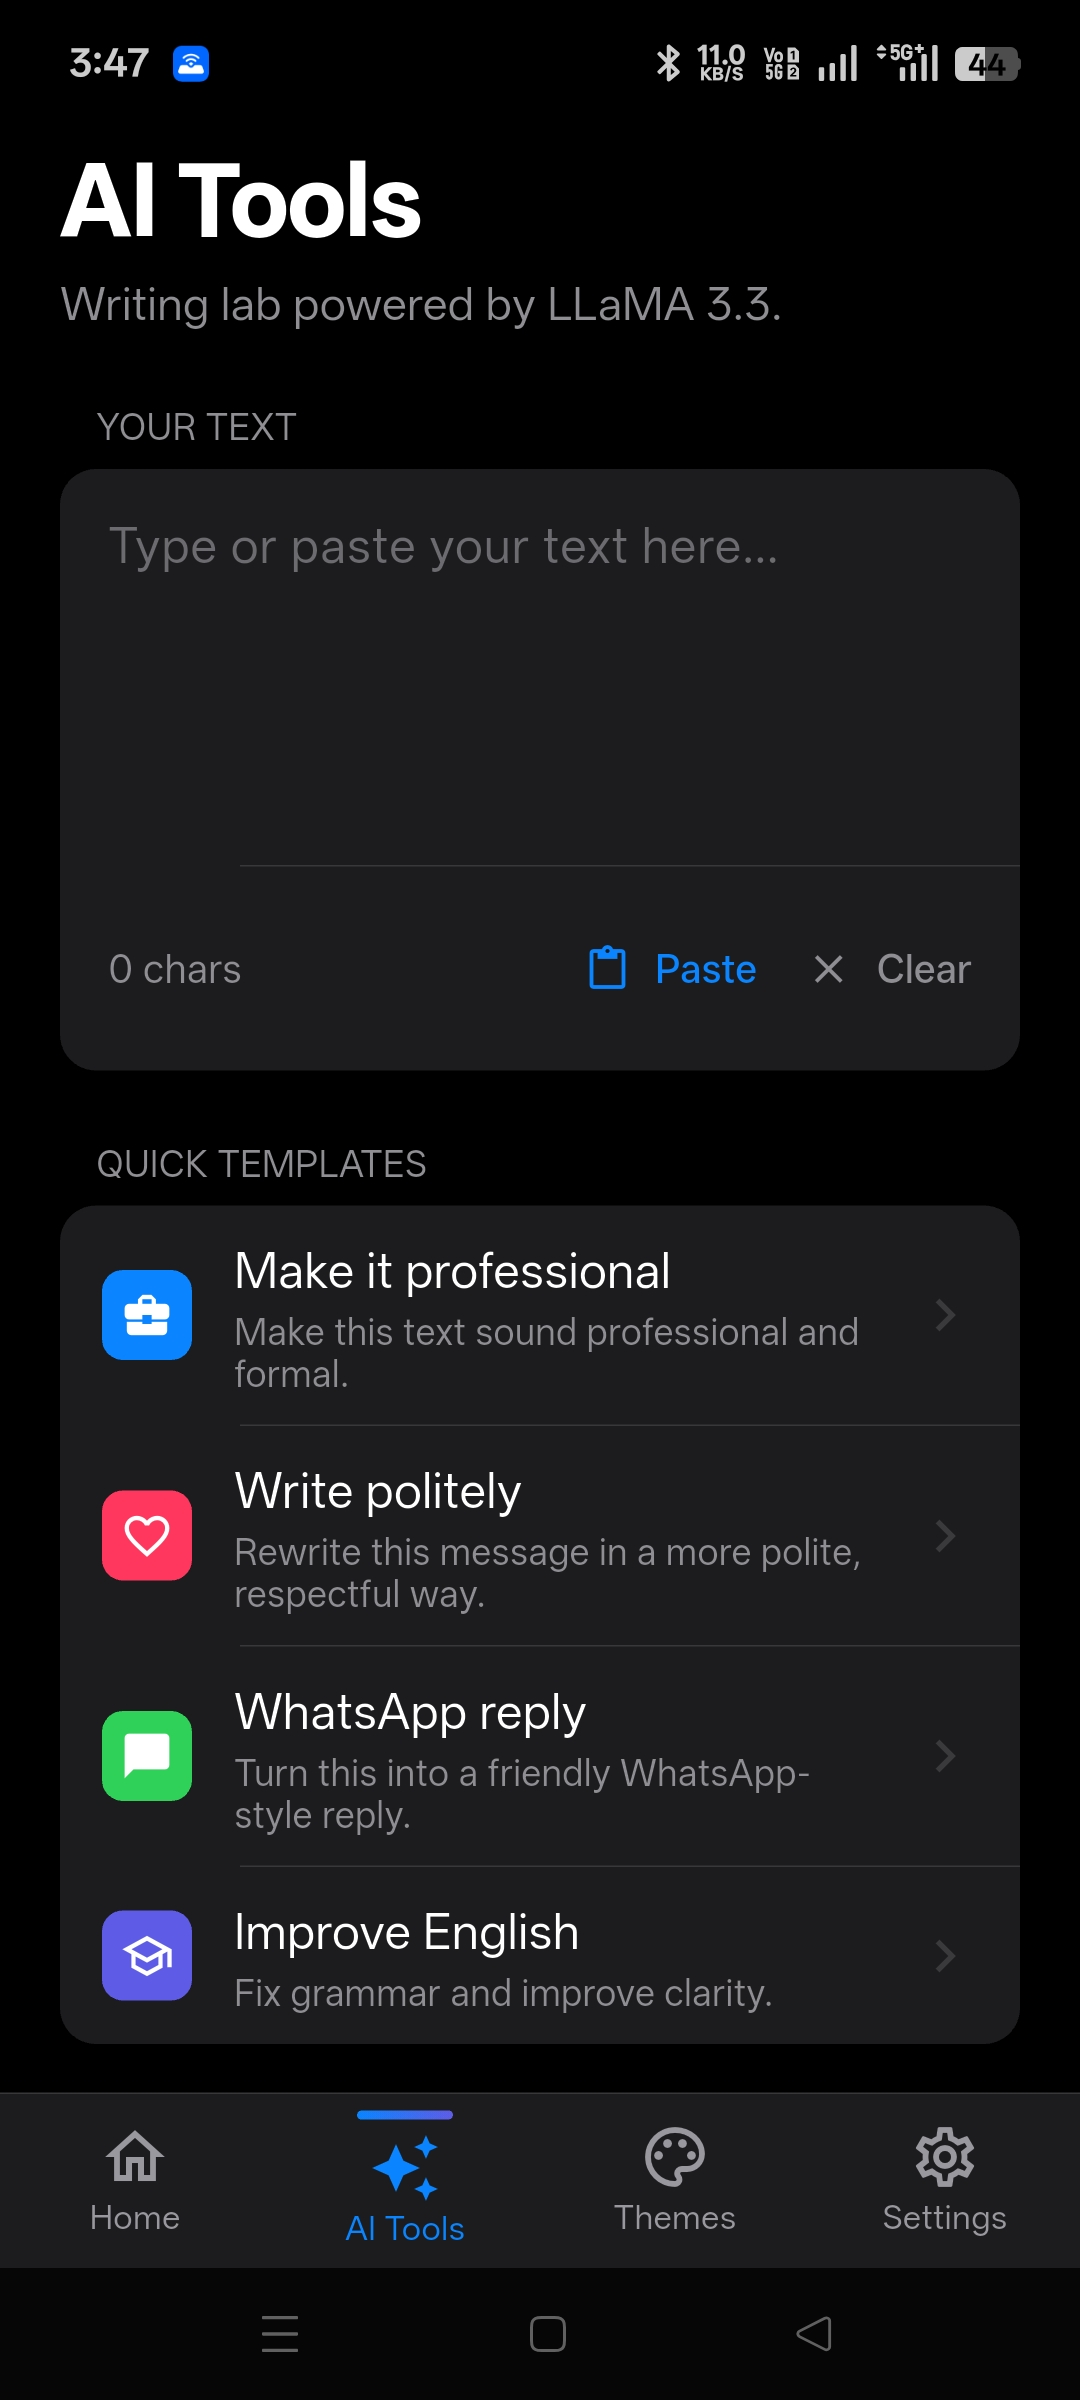
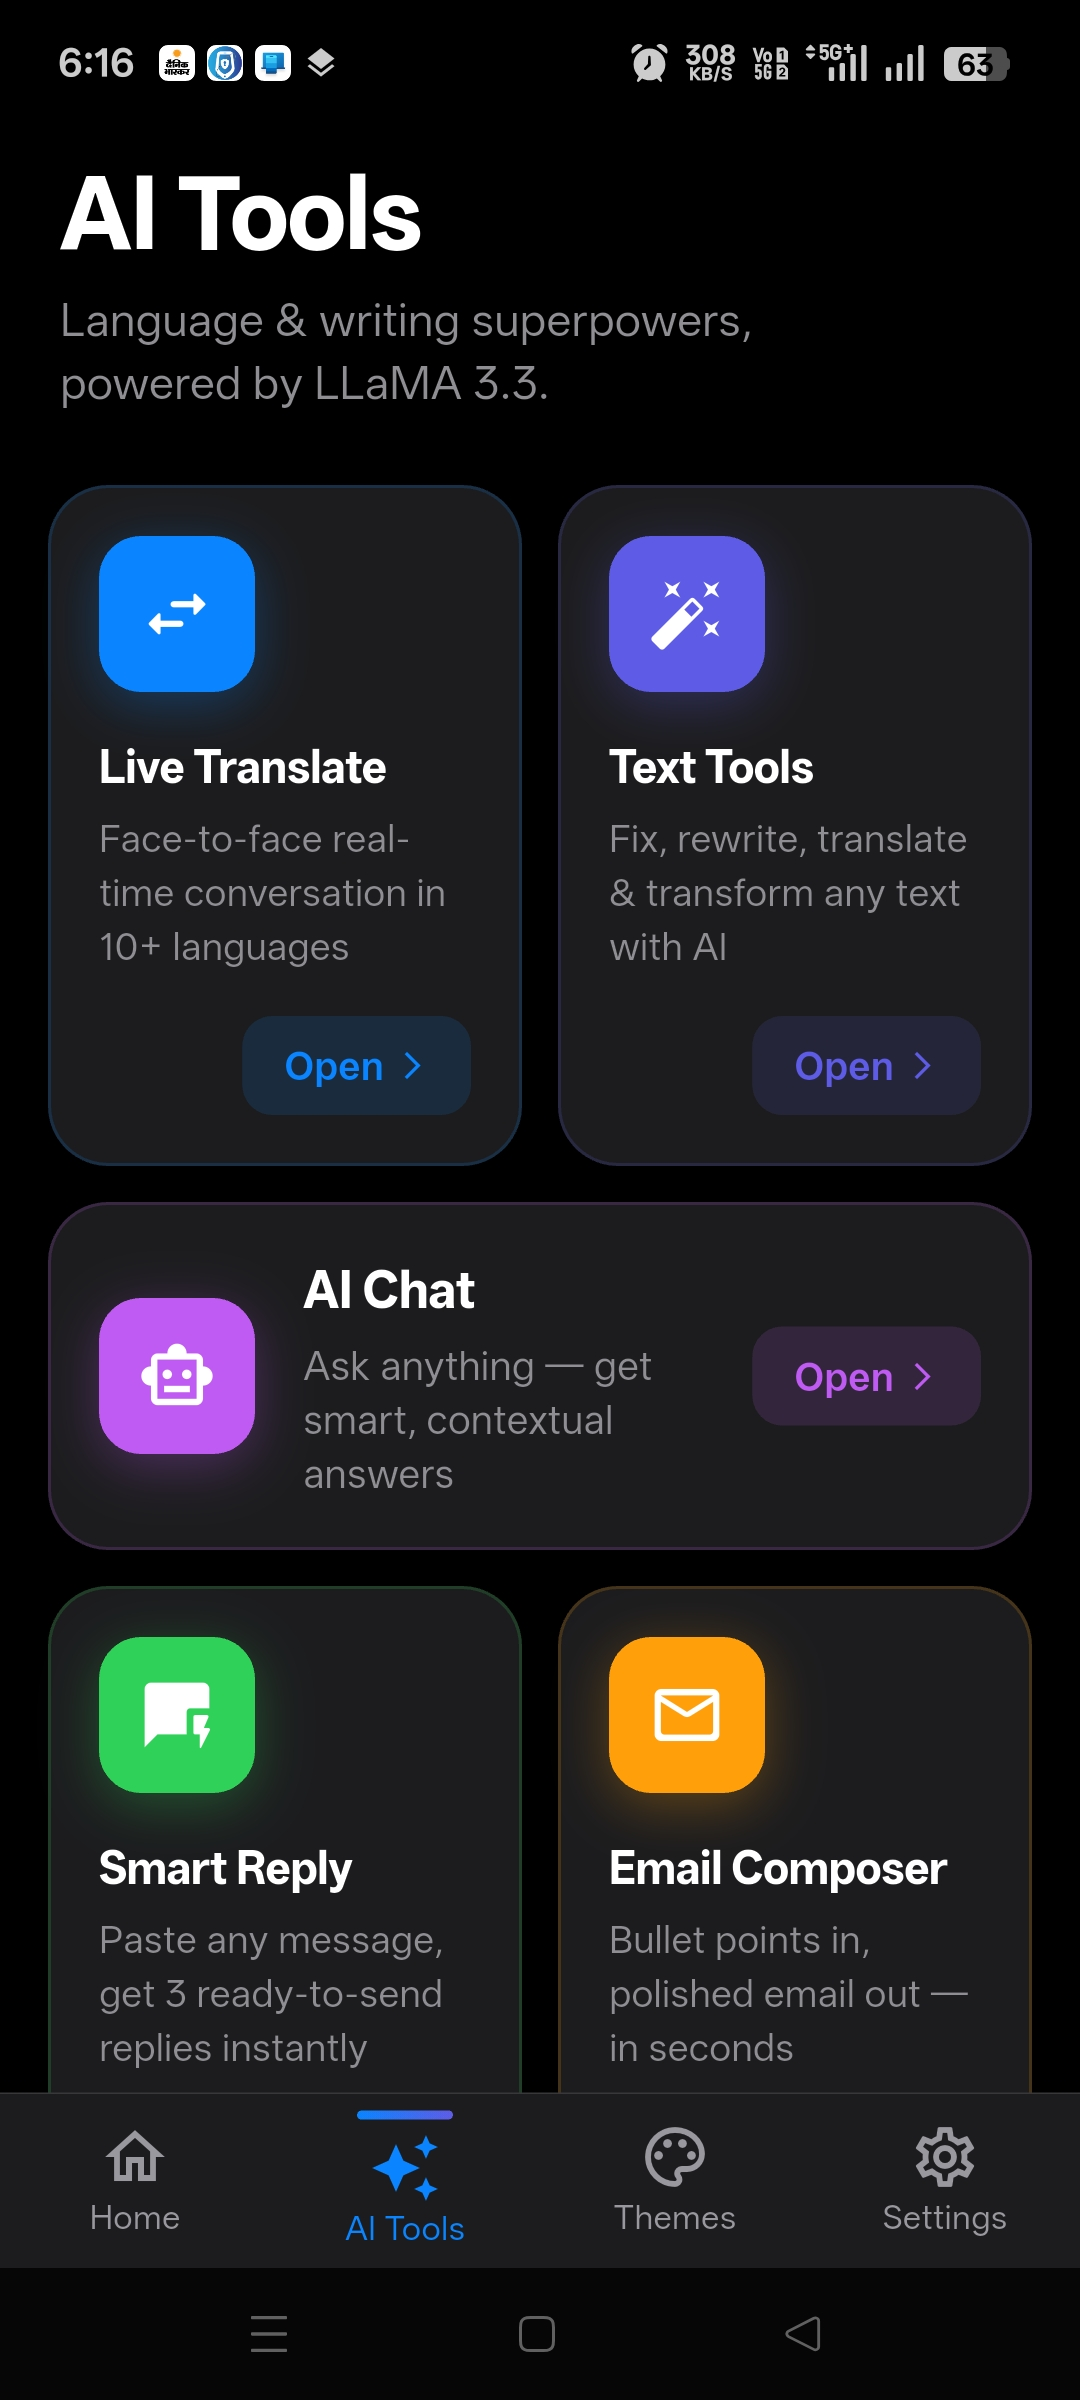
new app ver

diff --git a/index.html b/index.html
@@ -53,12 +53,11 @@
         AI-Powered · Android Keyboard · Free
       </div>
       <h1 class="hero-title">
-        Type in <span class="gradient-text">Hinglish</span>,<br />
-        Sound like a <span class="gradient-text">Pro</span>
+        One Keyboard.<br />
+        <span class="gradient-text">Unlimited AI Superpowers.</span>
       </h1>
       <p class="hero-sub">
-        TypeAura is a smart Android keyboard with AI support for <strong>10+ Indian languages</strong> — Hinglish, Hindi, Tamil, Telugu, Marathi, Bengali and more.
-        Live face-to-face translation, AI Chat with 6 modes, a full Text Tools lab, offline suggestions — powered by LLaMA&nbsp;3.3.
+        TypeAura is a smart Android keyboard with AI support for <strong>10+ Indian languages</strong>. Live Translate, AI Chat, Text Tools, Smart Reply, Email Composer, Tone Changer — <strong>6 AI tools</strong> built right into your keyboard. Powered by LLaMA&nbsp;3.3.
       </p>
       <div class="hero-cta" id="download">
         <a href="typeaura.apk" class="btn-primary" download>
@@ -141,6 +140,9 @@
           <div class="stat-pill">🤖 LLaMA 3.3 AI inside</div>
           <div class="stat-pill">🗣 Live face-to-face Translate</div>
           <div class="stat-pill">💬 AI Chat with 6 smart modes</div>
+          <div class="stat-pill">↩ Smart Reply — 3 variants instantly</div>
+          <div class="stat-pill">✉ Email Composer — notes to email</div>
+          <div class="stat-pill">🎚 Tone Changer — 6 tones</div>
           <div class="stat-pill">💡 Offline suggestions, no internet needed</div>
           <div class="stat-pill">🔒 AI off on password fields</div>
           <div class="stat-pill">⚡ Works in every app</div>
@@ -154,14 +156,14 @@
     <div class="container">
       <div class="section-header">
         <div class="section-tag">AI Tools</div>
-        <h2>Three powerful tools, <span class="gradient-text">one app</span></h2>
-        <p class="section-desc">Tap the AI Tools tab inside TypeAura to access all three — Live Translate, Text Tools, and AI Chat.</p>
+        <h2>Six powerful tools, <span class="gradient-text">one app</span></h2>
+        <p class="section-desc">Tap the AI Tools tab inside TypeAura to access all six — Live Translate, Text Tools, AI Chat, Smart Reply, Email Composer, and Tone Changer.</p>
       </div>
       <div class="ai-tools-grid">
 
         <div class="ai-tool-card">
           <div class="ai-tool-icon" style="background: linear-gradient(135deg,#0a84ff,#5e5ce6);">🗣</div>
-          <h3>Live Translate</h3>
+          <div class="ai-tool-header"><h3>Live Translate</h3></div>
           <p class="ai-tool-sub">Face-to-face real-time conversation</p>
           <p>Place your phone between two people — speak in your language, the other person sees the translation on their side of the screen, spoken aloud automatically. Supports 10+ languages.</p>
           <ul class="ai-tool-list">
@@ -174,7 +176,7 @@
 
         <div class="ai-tool-card">
           <div class="ai-tool-icon" style="background: linear-gradient(135deg,#5e5ce6,#bf5af2);">✍</div>
-          <h3>Text Tools</h3>
+          <div class="ai-tool-header"><h3>Text Tools</h3></div>
           <p class="ai-tool-sub">Write, fix, translate &amp; transform</p>
           <p>Paste any text and run it through 16+ AI tools — organized into three tabs so you always find what you need instantly.</p>
           <ul class="ai-tool-list">
@@ -187,7 +189,7 @@
 
         <div class="ai-tool-card">
           <div class="ai-tool-icon" style="background: linear-gradient(135deg,#bf5af2,#ff375f);">🤖</div>
-          <h3>AI Chat</h3>
+          <div class="ai-tool-header"><h3>AI Chat</h3></div>
           <p class="ai-tool-sub">Smart multi-turn assistant</p>
           <p>Ask anything — in English, Hindi, or Hinglish. AI Chat remembers the full conversation and adapts its behaviour based on the mode you pick.</p>
           <ul class="ai-tool-list">
@@ -195,6 +197,45 @@
             <li>✅ Reply language selector (10+ options)</li>
             <li>✅ Multi-turn memory across messages</li>
             <li>✅ Long-press any bubble to copy</li>
+          </ul>
+        </div>
+
+        <div class="ai-tool-card">
+          <div class="ai-tool-icon" style="background: linear-gradient(135deg,#30d158,#0a84ff);">↩</div>
+          <div class="ai-tool-header"><h3>Smart Reply</h3><span class="tool-new-badge">New</span></div>
+          <p class="ai-tool-sub">3 instant replies from any message</p>
+          <p>Paste any message you received — WhatsApp, email, or anywhere else — and get three ready-to-send replies in seconds. Casual, friendly, or professional — pick the one that fits.</p>
+          <ul class="ai-tool-list">
+            <li>✅ Casual · Friendly · Professional variants</li>
+            <li>✅ Copy any reply with one tap</li>
+            <li>✅ Works for any language or context</li>
+            <li>✅ No typing needed</li>
+          </ul>
+        </div>
+
+        <div class="ai-tool-card">
+          <div class="ai-tool-icon" style="background: linear-gradient(135deg,#ff9f0a,#ff375f);">✉</div>
+          <div class="ai-tool-header"><h3>Email Composer</h3><span class="tool-new-badge">New</span></div>
+          <p class="ai-tool-sub">Bullet points in, polished email out</p>
+          <p>Jot down rough notes or key points, select who you're writing to, and get a complete professional email — Subject line included — in seconds.</p>
+          <ul class="ai-tool-list">
+            <li>✅ Recipient types — Boss, Colleague, Client, Friend</li>
+            <li>✅ Subject line auto-generated</li>
+            <li>✅ Proper greeting &amp; sign-off included</li>
+            <li>✅ One-tap copy to send anywhere</li>
+          </ul>
+        </div>
+
+        <div class="ai-tool-card">
+          <div class="ai-tool-icon" style="background: linear-gradient(135deg,#40cbe0,#5e5ce6);">🎚</div>
+          <div class="ai-tool-header"><h3>Tone Changer</h3><span class="tool-new-badge">New</span></div>
+          <p class="ai-tool-sub">Switch tone with one tap</p>
+          <p>Type your message in any tone — then instantly transform it to sound exactly how you want. Six tones available, with the action button changing colour to match your pick.</p>
+          <ul class="ai-tool-list">
+            <li>✅ Casual · Formal · Friendly · Professional</li>
+            <li>✅ Humorous · Direct</li>
+            <li>✅ "Use as input" to chain multiple transforms</li>
+            <li>✅ Copy result in one tap</li>
           </ul>
         </div>
 
@@ -264,6 +305,21 @@
           <div class="feature-icon">🔒</div>
           <h3>Privacy First</h3>
           <p>AI automatically disabled on password fields. Clipboard stays on your device. No text is ever stored.</p>
+        </div>
+        <div class="feature-card feature-card--green">
+          <div class="feature-icon">↩</div>
+          <h3>Smart Reply</h3>
+          <p>Paste any received message — get 3 ready-to-send replies: Casual, Friendly, and Professional. One tap to copy.</p>
+        </div>
+        <div class="feature-card feature-card--orange">
+          <div class="feature-icon">✉</div>
+          <h3>Email Composer</h3>
+          <p>Turn rough bullet points into a polished email with Subject line and sign-off. Choose your recipient type first.</p>
+        </div>
+        <div class="feature-card feature-card--teal">
+          <div class="feature-icon">🎚</div>
+          <h3>Tone Changer</h3>
+          <p>Instantly rewrite text in 6 tones — Casual, Formal, Friendly, Professional, Humorous, or Direct.</p>
         </div>
       </div>
     </div>

diff --git a/style.css b/style.css
@@ -215,6 +215,16 @@ section[id] {
   color: var(--text);
 }
 
+.section-header::after {
+  content: '';
+  display: block;
+  width: 48px;
+  height: 3px;
+  background: linear-gradient(90deg, var(--accent), var(--purple));
+  border-radius: 2px;
+  margin: 18px auto 0;
+}
+
 .section-desc {
   margin-top: 12px;
   color: var(--text2);
@@ -227,6 +237,8 @@ section[id] {
   overflow: hidden;
   padding: 120px 0 100px;
   text-align: center;
+  background-image: radial-gradient(circle, rgba(138,180,248,0.06) 1px, transparent 1px);
+  background-size: 32px 32px;
 }
 
 .hero-glow {
@@ -336,10 +348,17 @@ section[id] {
   padding: 14px 18px;
   background: rgba(138, 180, 248, 0.06);
   border: 1px solid var(--border);
+  border-left: 3px solid rgba(138, 180, 248, 0.4);
   border-radius: var(--radius-sm);
   font-size: 15px;
   color: var(--text);
   font-weight: 500;
+  transition: background 0.2s, transform 0.2s, border-color 0.2s;
+}
+.stat-pill:hover {
+  background: rgba(138, 180, 248, 0.10);
+  transform: translateX(5px);
+  border-left-color: var(--accent);
 }
 
 /* ─── Features ───────────────────────────────────────────────── */
@@ -366,6 +385,18 @@ section[id] {
 .feature-card--accent {
   border-color: rgba(138, 180, 248, 0.3);
   background: linear-gradient(135deg, rgba(138, 180, 248, 0.07), rgba(187, 134, 252, 0.05));
+}
+.feature-card--green {
+  border-color: rgba(48, 209, 88, 0.3);
+  background: linear-gradient(135deg, rgba(48, 209, 88, 0.07), rgba(10, 132, 255, 0.04));
+}
+.feature-card--orange {
+  border-color: rgba(255, 159, 10, 0.3);
+  background: linear-gradient(135deg, rgba(255, 159, 10, 0.07), rgba(255, 55, 95, 0.04));
+}
+.feature-card--teal {
+  border-color: rgba(64, 203, 224, 0.3);
+  background: linear-gradient(135deg, rgba(64, 203, 224, 0.07), rgba(94, 92, 230, 0.04));
 }
 
 .feature-icon {
@@ -399,14 +430,45 @@ section[id] {
   border: 1px solid var(--border);
   border-radius: 18px;
   padding: 28px 24px;
-  transition: border-color 0.2s, transform 0.2s;
+  transition: border-color 0.25s, transform 0.25s, box-shadow 0.25s;
+  position: relative;
+  overflow: hidden;
 }
 
-.ai-tool-card:hover {
-  border-color: rgba(138, 180, 248, 0.35);
-  transform: translateY(-4px);
-  box-shadow: 0 12px 40px rgba(138, 180, 248, 0.08);
+/* Colored top accent bar per card */
+.ai-tool-card:nth-child(1) { border-top: 3px solid #0a84ff; }
+.ai-tool-card:nth-child(2) { border-top: 3px solid #5e5ce6; }
+.ai-tool-card:nth-child(3) { border-top: 3px solid #bf5af2; }
+.ai-tool-card:nth-child(4) { border-top: 3px solid #30d158; }
+.ai-tool-card:nth-child(5) { border-top: 3px solid #ff9f0a; }
+.ai-tool-card:nth-child(6) { border-top: 3px solid #40cbe0; }
+
+/* Per-card hover glow matching the accent color */
+.ai-tool-card:nth-child(1):hover { border-color: rgba(10,132,255,0.45);  box-shadow: 0 14px 48px rgba(10,132,255,0.14);  transform: translateY(-5px); }
+.ai-tool-card:nth-child(2):hover { border-color: rgba(94,92,230,0.45);   box-shadow: 0 14px 48px rgba(94,92,230,0.14);   transform: translateY(-5px); }
+.ai-tool-card:nth-child(3):hover { border-color: rgba(191,90,242,0.45);  box-shadow: 0 14px 48px rgba(191,90,242,0.14);  transform: translateY(-5px); }
+.ai-tool-card:nth-child(4):hover { border-color: rgba(48,209,88,0.45);   box-shadow: 0 14px 48px rgba(48,209,88,0.14);   transform: translateY(-5px); }
+.ai-tool-card:nth-child(5):hover { border-color: rgba(255,159,10,0.45);  box-shadow: 0 14px 48px rgba(255,159,10,0.14);  transform: translateY(-5px); }
+.ai-tool-card:nth-child(6):hover { border-color: rgba(64,203,224,0.45);  box-shadow: 0 14px 48px rgba(64,203,224,0.14);  transform: translateY(-5px); }
+
+/* Subtle inner glow on the top edge */
+.ai-tool-card::before {
+  content: '';
+  position: absolute;
+  top: 0; left: 0; right: 0;
+  height: 80px;
+  border-radius: 18px 18px 0 0;
+  opacity: 0.06;
+  pointer-events: none;
+  transition: opacity 0.25s;
 }
+.ai-tool-card:nth-child(1)::before { background: linear-gradient(180deg, #0a84ff, transparent); }
+.ai-tool-card:nth-child(2)::before { background: linear-gradient(180deg, #5e5ce6, transparent); }
+.ai-tool-card:nth-child(3)::before { background: linear-gradient(180deg, #bf5af2, transparent); }
+.ai-tool-card:nth-child(4)::before { background: linear-gradient(180deg, #30d158, transparent); }
+.ai-tool-card:nth-child(5)::before { background: linear-gradient(180deg, #ff9f0a, transparent); }
+.ai-tool-card:nth-child(6)::before { background: linear-gradient(180deg, #40cbe0, transparent); }
+.ai-tool-card:hover::before { opacity: 0.12; }
 
 .ai-tool-icon {
   width: 56px;
@@ -419,12 +481,35 @@ section[id] {
   margin-bottom: 16px;
 }
 
+.ai-tool-header {
+  display: flex;
+  align-items: center;
+  gap: 8px;
+  margin-bottom: 4px;
+  flex-wrap: wrap;
+}
+
 .ai-tool-card h3 {
   font-size: 20px;
   font-weight: 700;
   color: var(--text);
-  margin-bottom: 4px;
   letter-spacing: -0.3px;
+}
+
+/* "New" badge */
+.tool-new-badge {
+  display: inline-block;
+  padding: 3px 9px;
+  background: linear-gradient(135deg, #30d158, #0a84ff);
+  color: #fff;
+  border-radius: 20px;
+  font-size: 11px;
+  font-weight: 700;
+  letter-spacing: 0.3px;
+  flex-shrink: 0;
+  margin-left: 8px;
+  margin-top: 4px;
+  text-transform: uppercase;
 }
 
 .ai-tool-sub {
